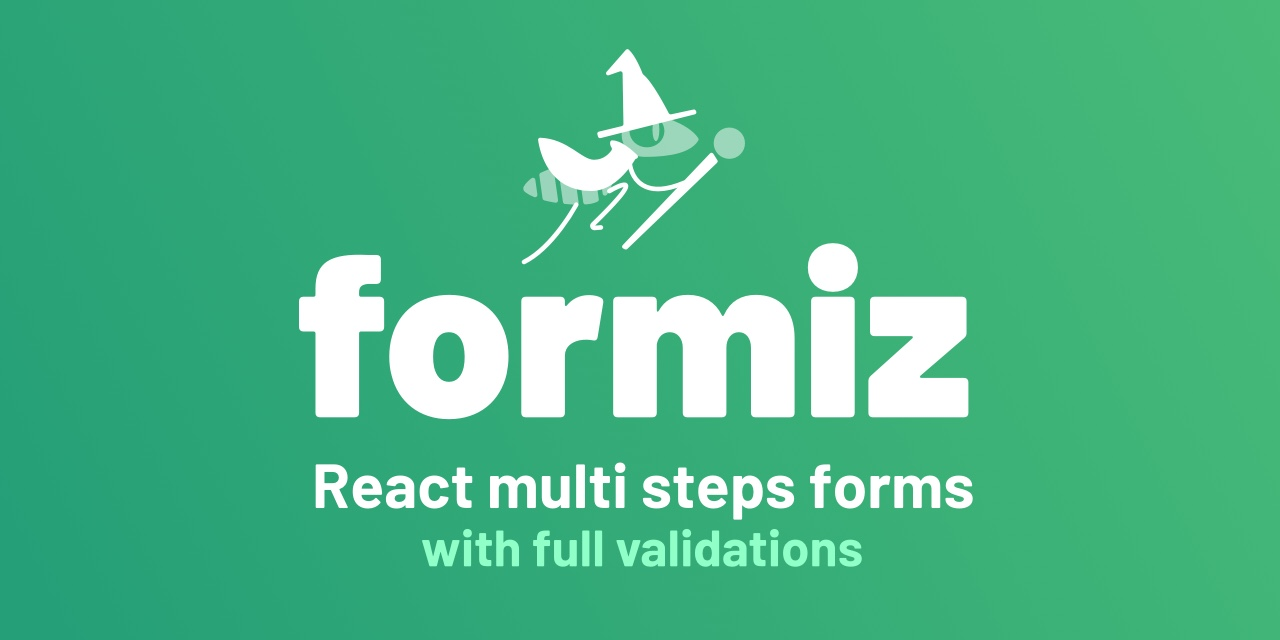
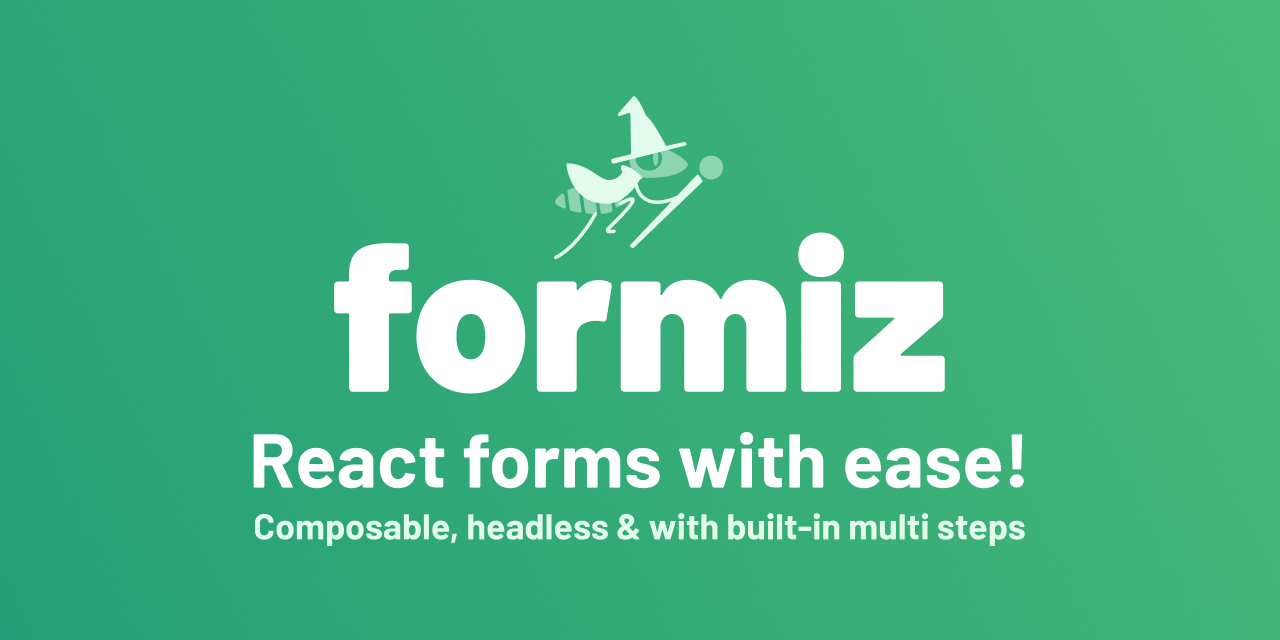
fix(docs): Improve mkg

Changed region(s): [[0.1875, 0.3438, 0.8125, 0.9062], [0.4062, 0.0625, 0.5938, 0.4062]]

diff --git a/documentation/docusaurus.config.js b/documentation/docusaurus.config.js
@@ -1,6 +1,6 @@
 module.exports = {
   title: 'Formiz',
-  tagline: 'React forms with easy validation and multi steps',
+  tagline: 'React forms with ease! Composable, headless & with built-in multi steps',
   url: 'https://formiz-react.com',
   baseUrl: '/',
   favicon: 'img/favicon.ico',
